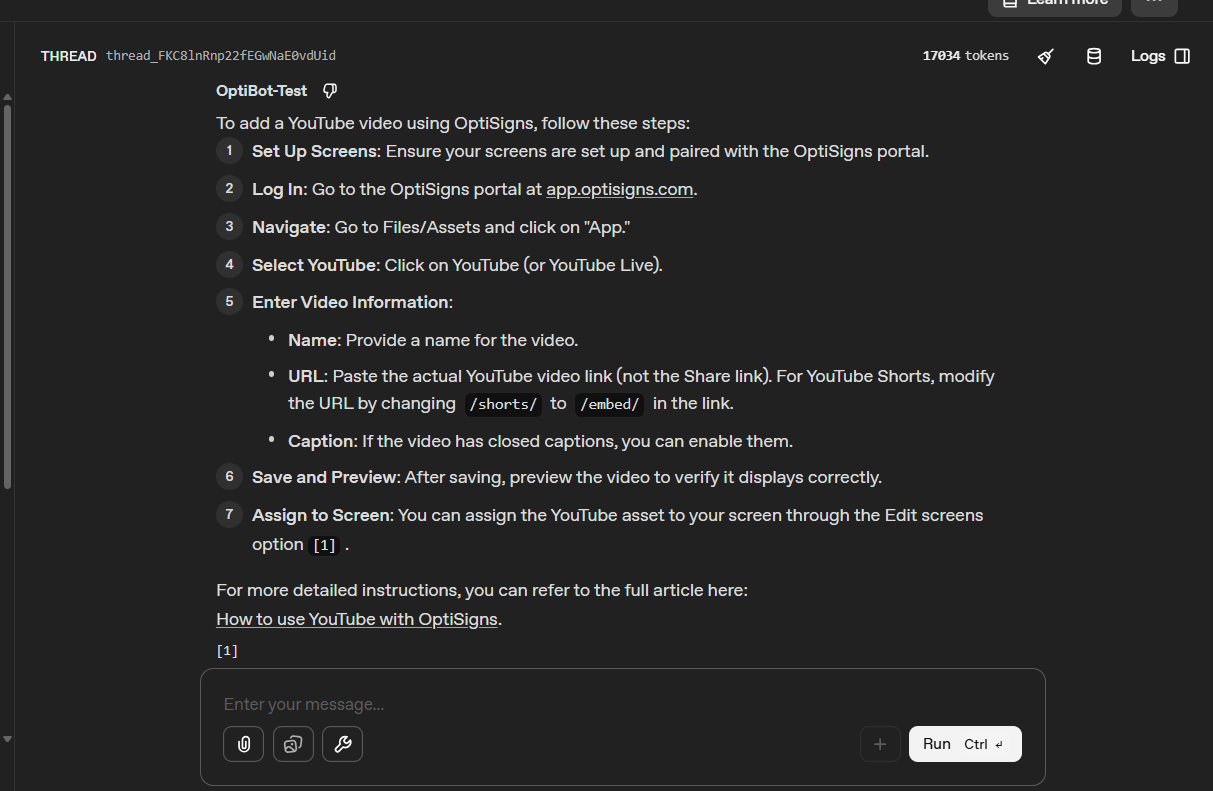
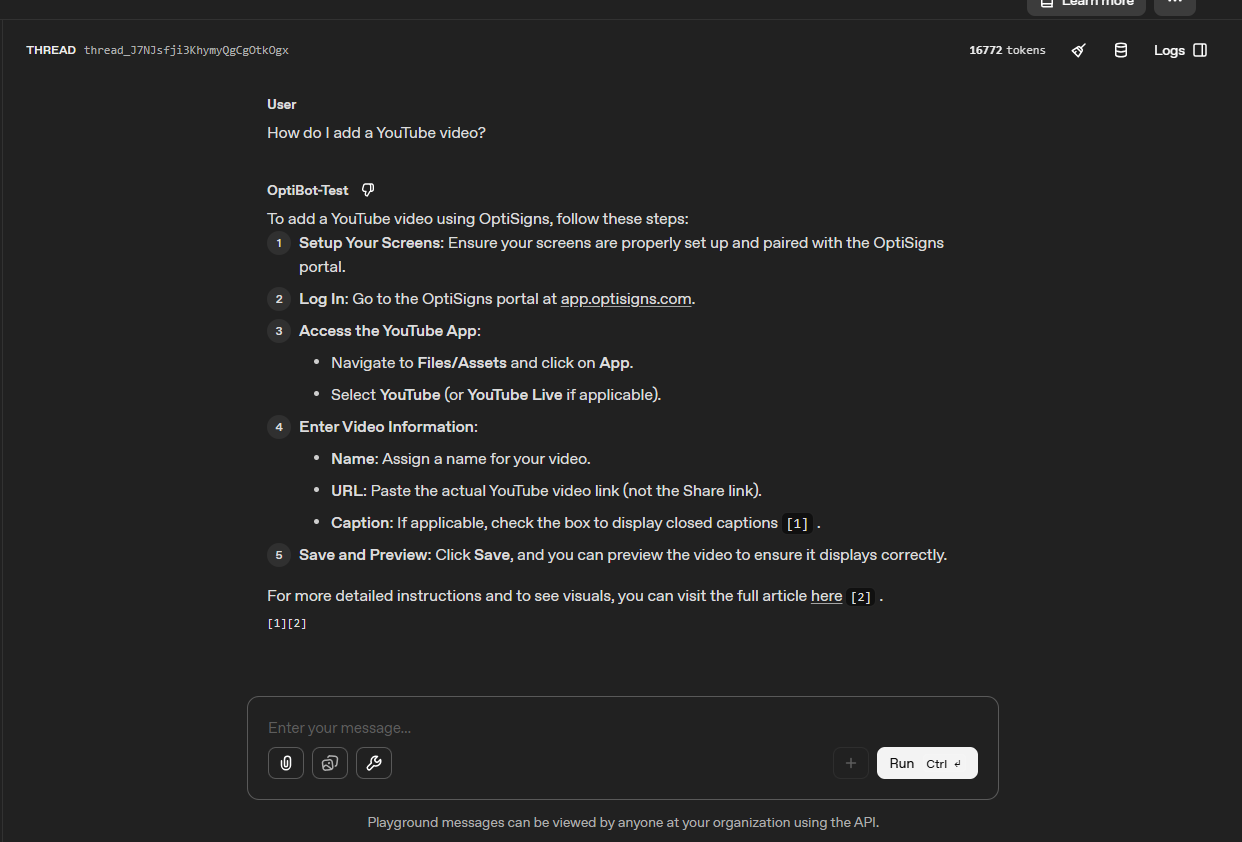
docs: finalize Dockerfile,  README and add deployment notes

diff --git a/README.md b/README.md
@@ -1,0 +1,70 @@
+# Helpdesk RAG Sync
+
+This project scrapes articles, converts them to Markdown, and syncs them into an OpenAI Vector Store for retrieval by an assistant.
+The current sync covers **404 scraped articles**.
+
+## Setup
+
+1. Copy the sample environment file:
+   ```bash
+   cp .env.sample .env
+   ```
+2. Fill in the required variables:
+   - `OPENAI_API_KEY`
+   - `VECTOR_STORE_ID` (optional on first run; the script will create one if missing)
+
+## Run locally
+
+```bash
+pip install -r requirements.txt
+python main.py
+```
+
+You can also run the same job in Docker:
+
+```bash
+docker build -t kb-sync-pipeline .
+docker run --rm -e OPENAI_API_KEY=your-key -e VECTOR_STORE_ID=your-store optibot-job
+```
+
+## Chunking strategy
+
+The sync uses static chunking with:
+- `max_chunk_size_tokens: 800`
+- `chunk_overlap_tokens: 400`
+
+This is a good fit for support articles because it preserves context around numbered steps and troubleshooting instructions while keeping chunks compact.
+
+## Assistant sanity check
+
+After the first sync completes, create an assistant in the OpenAI Playground and attach the vector store. Then test it with:
+
+```text
+How do I add a YouTube video?
+```
+
+### Result:
+![Sanity Check](assets/sanity_check.png)
+
+## Daily job / deployment
+
+The container is designed to run once and exit successfully. This project is deployed on Google Cloud Run Jobs triggered by Cloud Scheduler on a daily schedule (02:00 UTC).
+
+- Docker image stored in Artifact Registry
+- Job: kb-sync-daily
+- Region: us-central1
+- Environment variables are set directly on the job
+
+### Logs in the Google Cloud Console:
+
+![GCP Job Log](assets/gcp_logs.png)
+
+## Notes
+
+The Assistants API (used to create and query the assistant) is scheduled for
+sunset on **August 26, 2026**. The Vector Store and file upload APIs used by
+this project are unaffected — they are shared infrastructure between the
+Assistants API and its replacement, the Responses API. When the time comes,
+the migration path is to swap the Assistant query layer for a Responses API
+call with the `file_search` tool pointed at the same `VECTOR_STORE_ID`, with
+no re-ingestion needed.